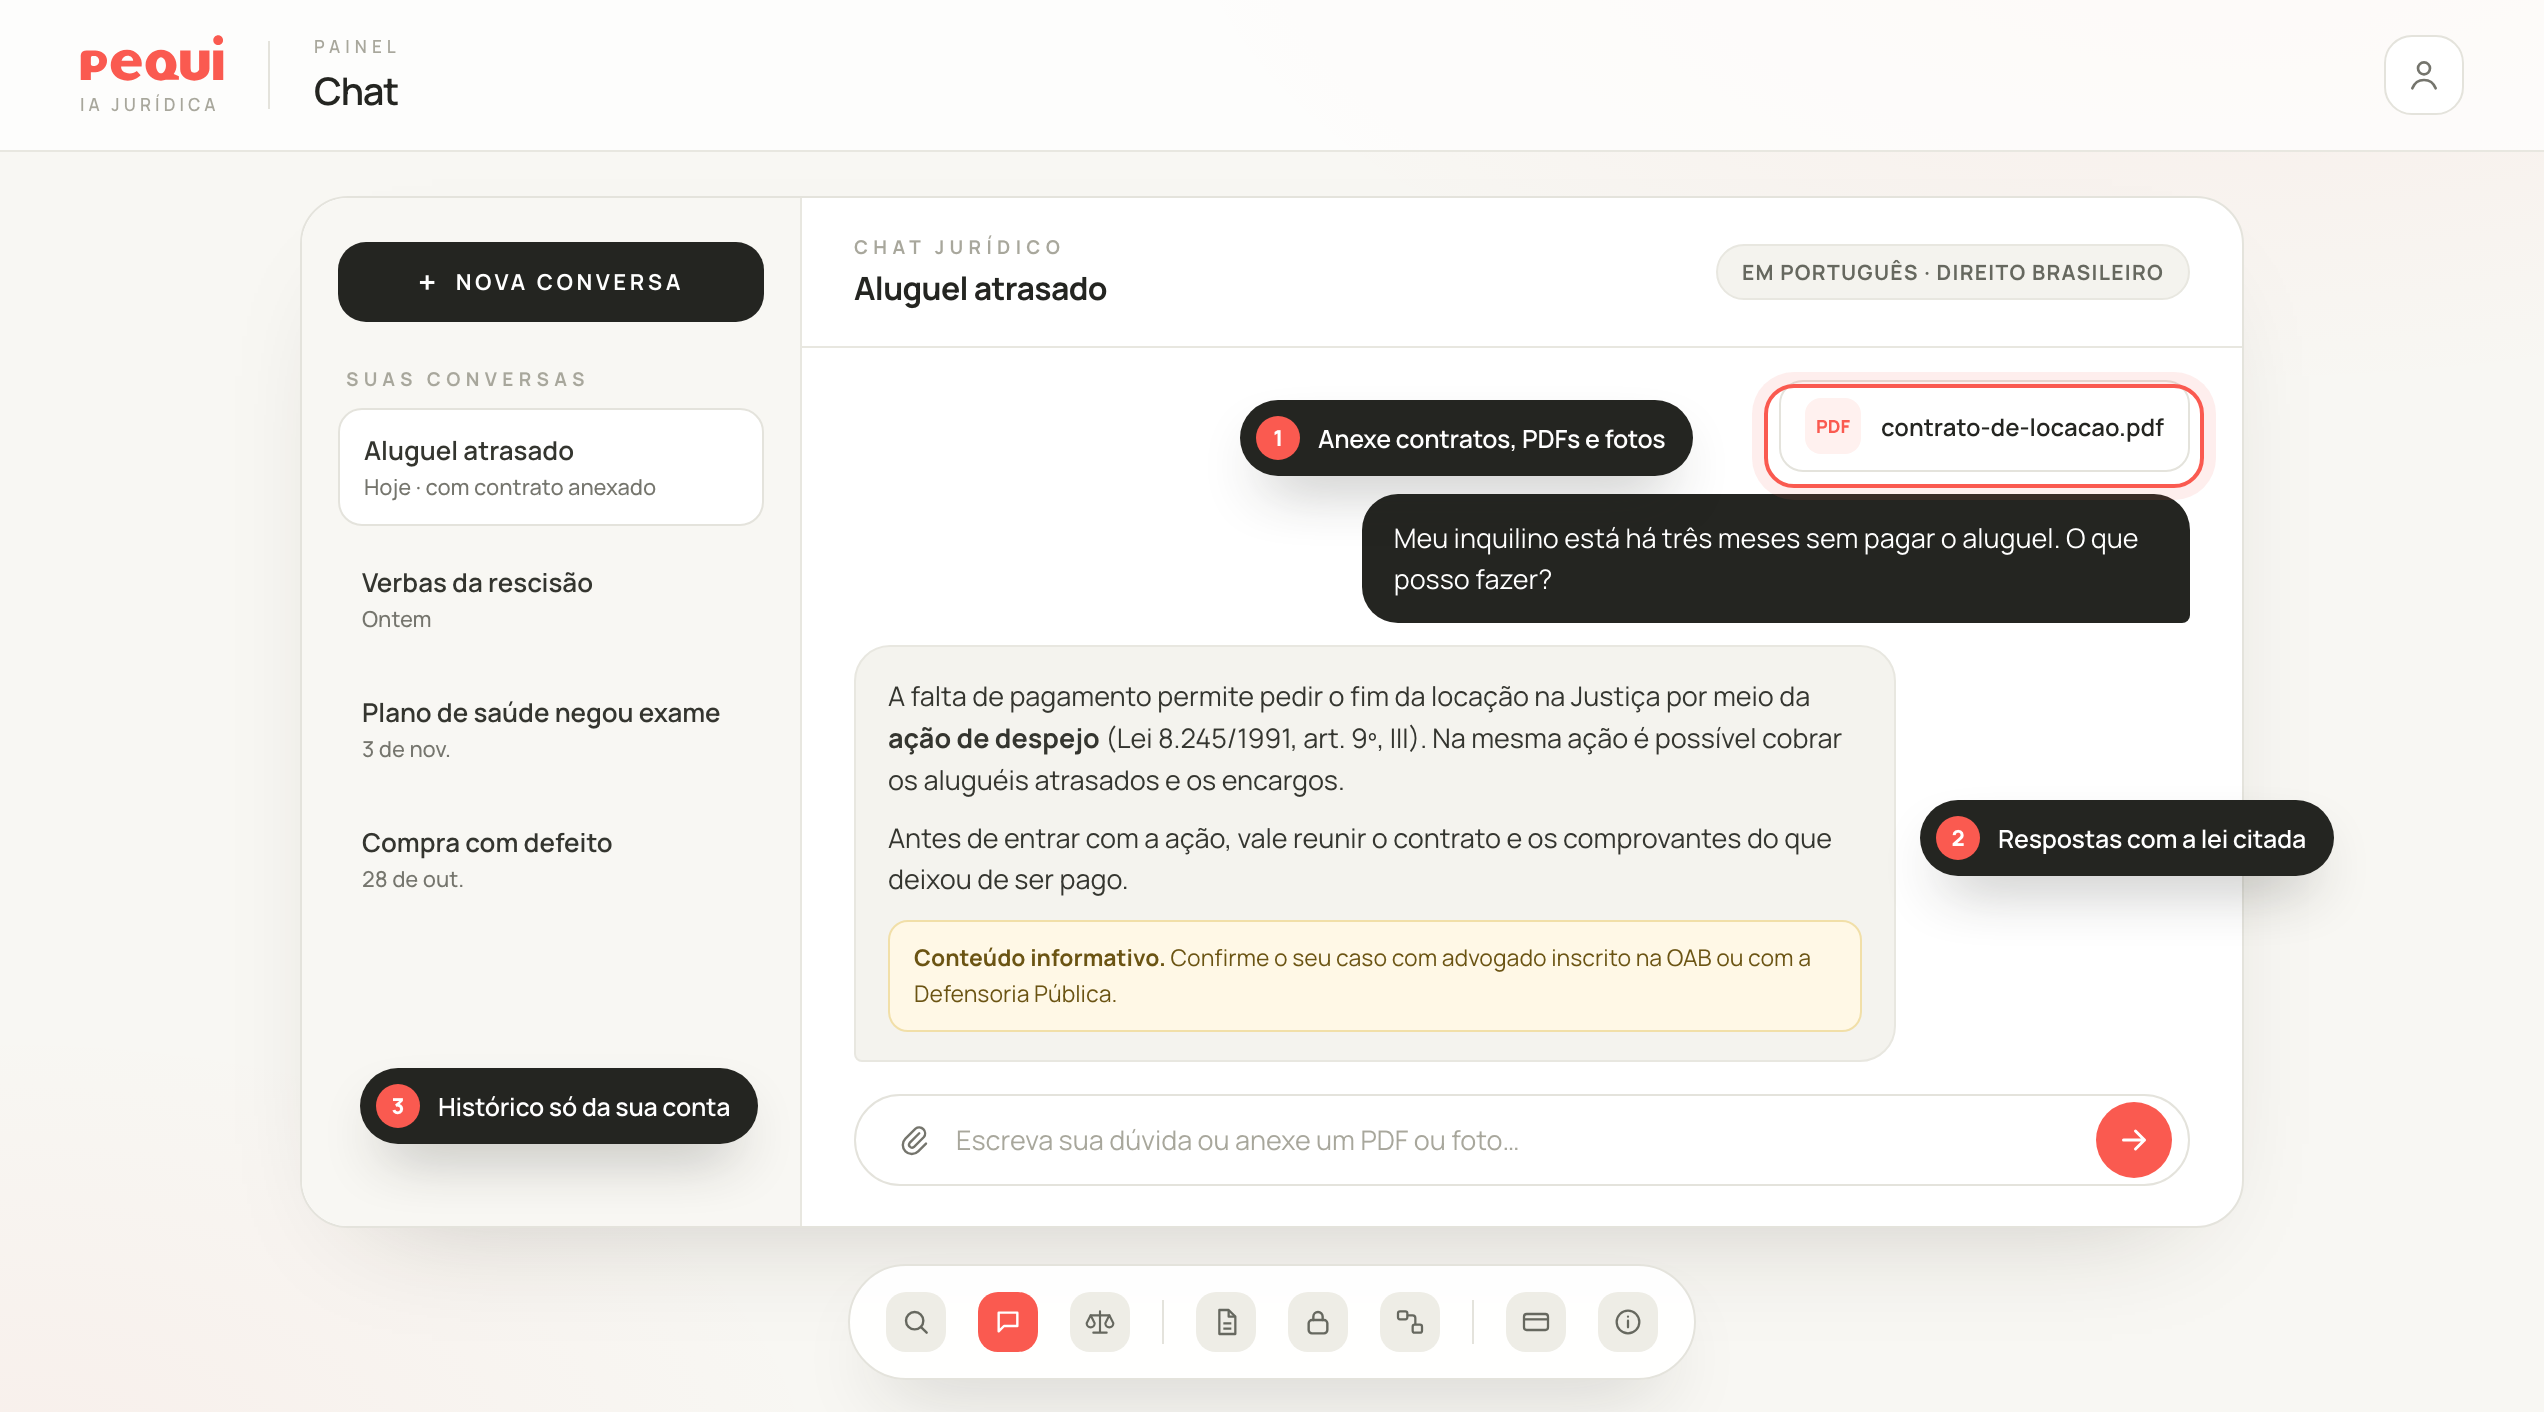
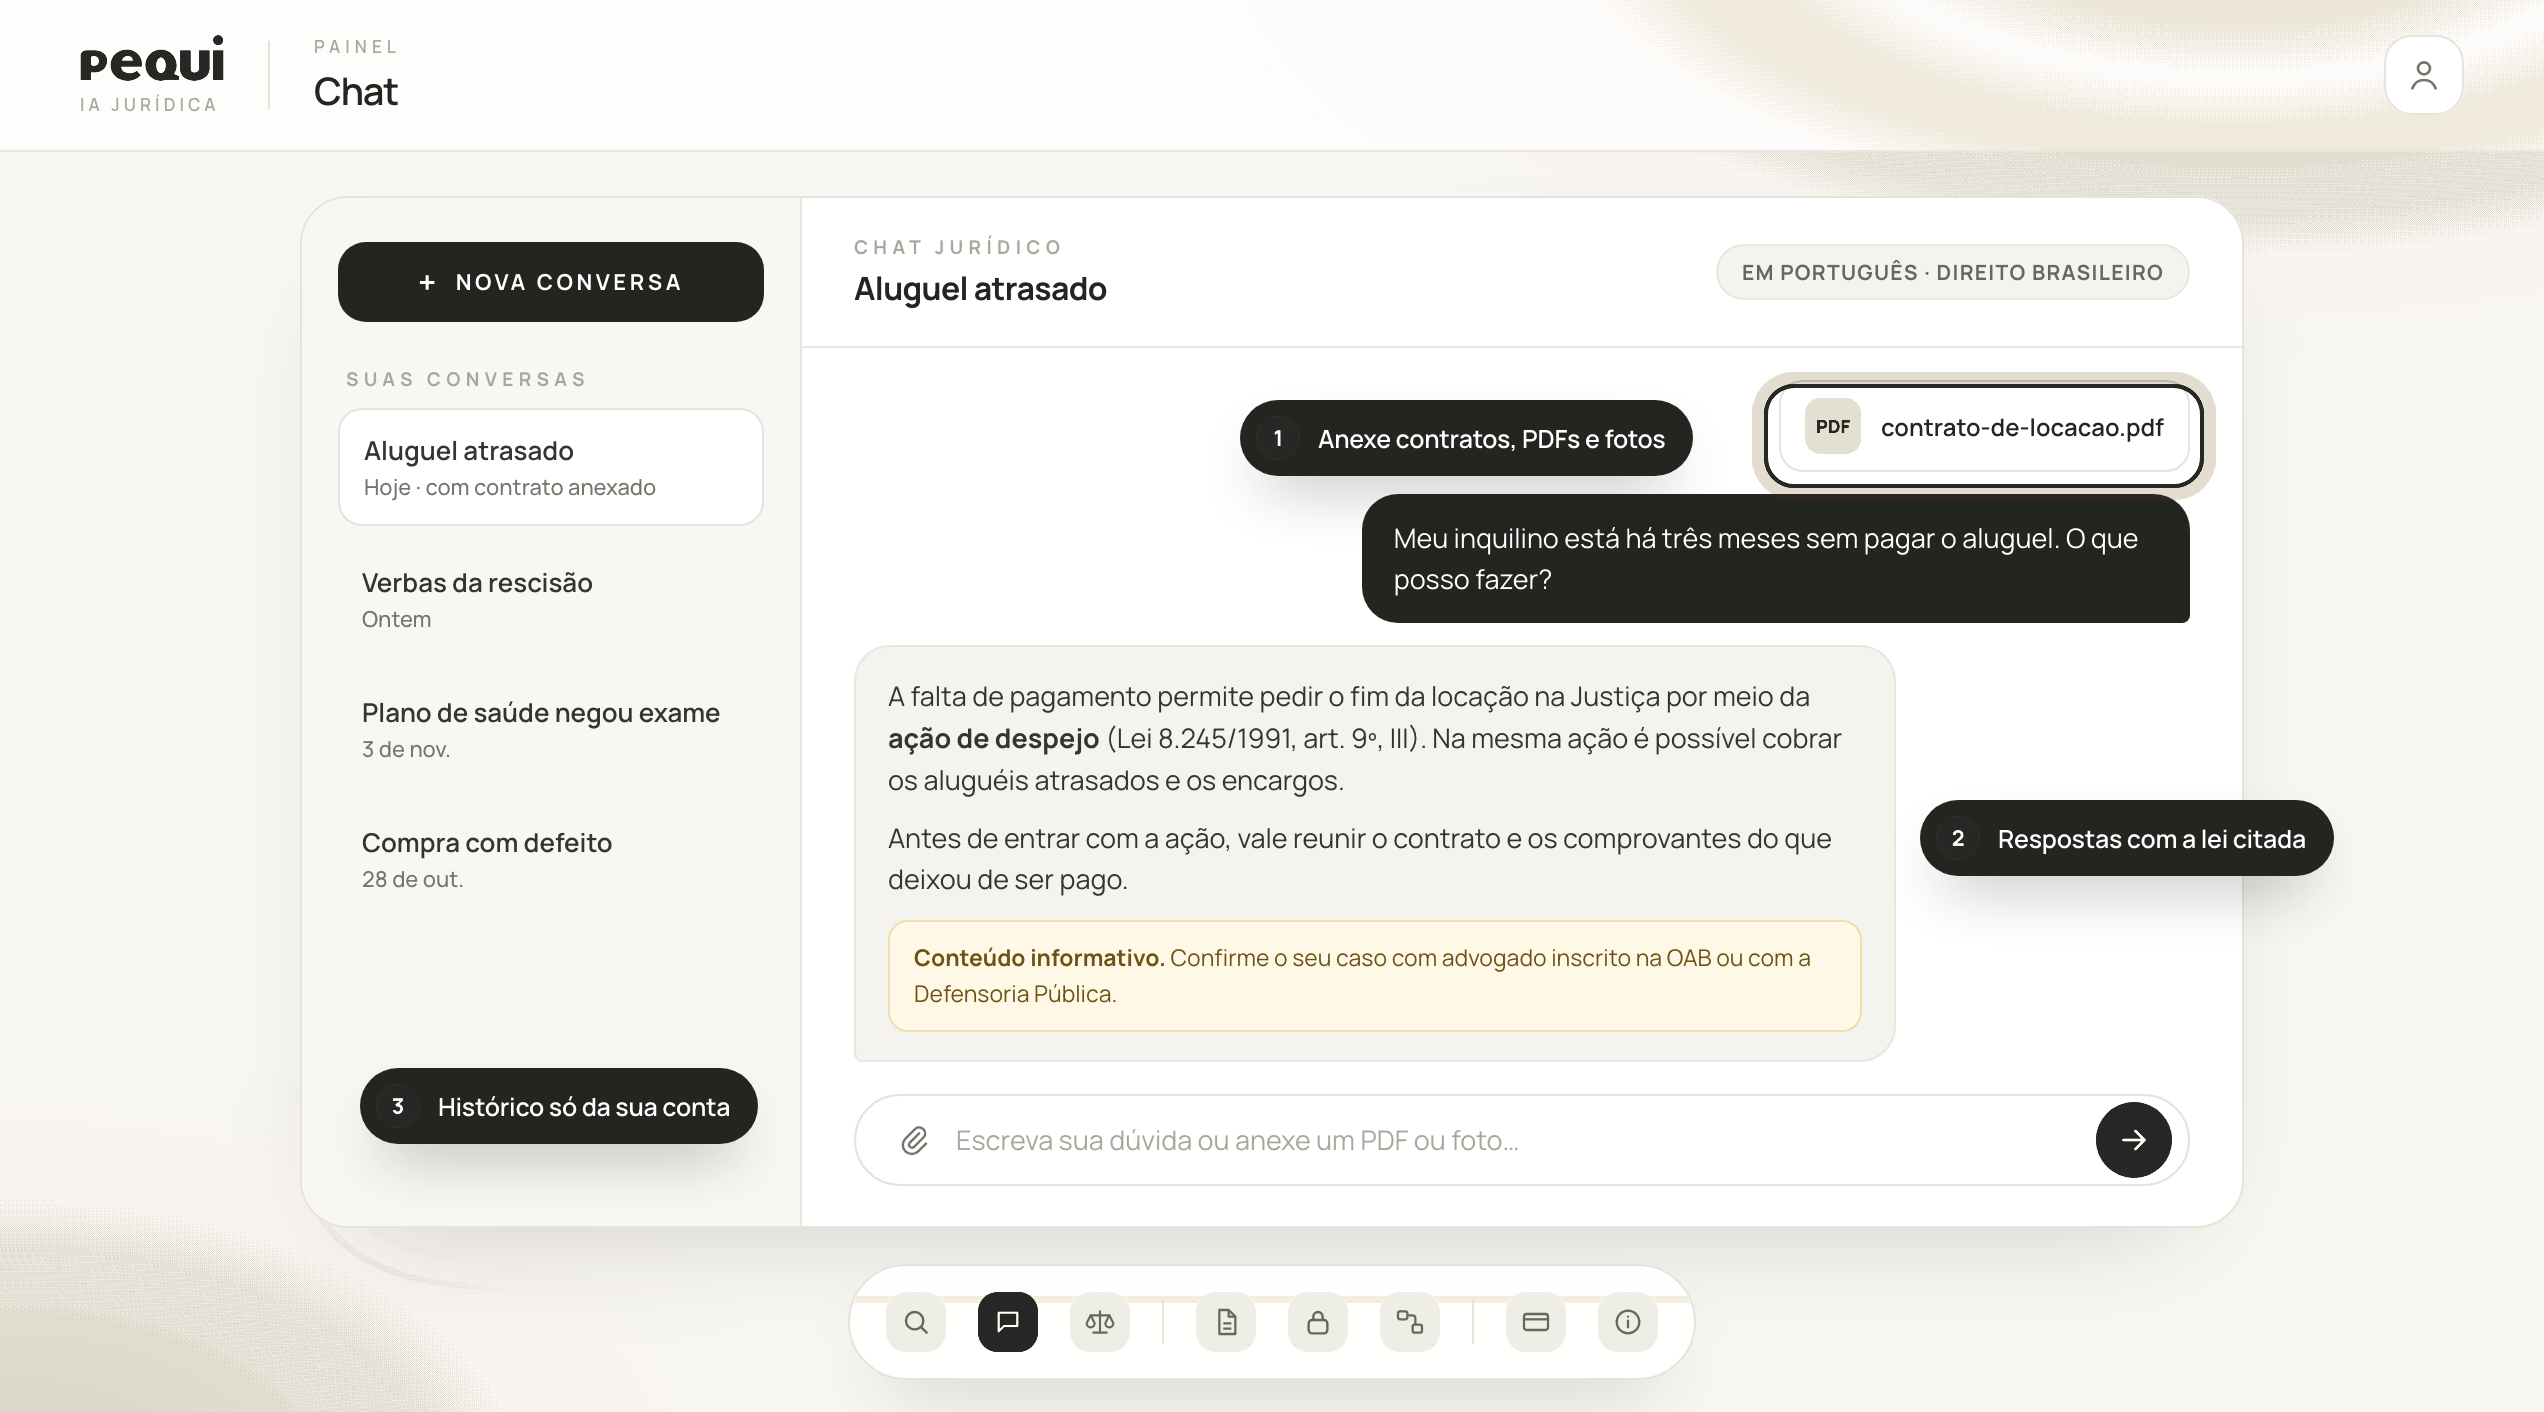
Topo com foto de colunas e telas de referência sem coral
- Foto de colunas como fundo do topo, com véu grafite e etiqueta legível
- Prints do produto e favicon recoloridos: coral vira grafite, rosa vira creme
  (fotos de pessoas mantidas como estavam)

diff --git a/app/components/landingpage/HeroSection.tsx b/app/components/landingpage/HeroSection.tsx
@@ -1,6 +1,7 @@
 'use client';
 
 import { useState } from 'react';
+import Image from 'next/image';
 import Link from 'next/link';
 import { useRouter } from 'next/navigation';
 
@@ -21,28 +22,26 @@ export default function HeroSection() {
       id="hero"
       className="relative -mt-20 overflow-hidden bg-[#151816] px-5 pb-20 pt-40 text-white sm:px-8 sm:pt-48 lg:pb-28"
     >
-      {/* luz quente e linhas finas no fundo */}
+      {/* Foto de fundo (colunas de um palácio da justiça) com véu grafite para o texto ler bem */}
+      <Image
+        src="/landingpage/hero/colunas.jpg"
+        alt=""
+        fill
+        priority
+        sizes="100vw"
+        className="object-cover object-[50%_45%]"
+      />
       <div
         aria-hidden="true"
         className="pointer-events-none absolute inset-0"
         style={{
           background:
-            'radial-gradient(ellipse 70% 55% at 50% 0%, rgba(244,239,223,0.16), transparent 70%), radial-gradient(ellipse 50% 40% at 85% 100%, rgba(244,239,223,0.08), transparent 70%)',
-        }}
-      />
-      <div
-        aria-hidden="true"
-        className="pointer-events-none absolute inset-0 opacity-[0.06]"
-        style={{
-          backgroundImage: 'linear-gradient(rgba(255,255,255,.6) 1px, transparent 1px), linear-gradient(90deg, rgba(255,255,255,.6) 1px, transparent 1px)',
-          backgroundSize: '72px 72px',
-          maskImage: 'radial-gradient(ellipse 70% 60% at 50% 30%, #000 30%, transparent 75%)',
-          WebkitMaskImage: 'radial-gradient(ellipse 70% 60% at 50% 30%, #000 30%, transparent 75%)',
+            'linear-gradient(180deg, rgba(21,24,22,0.7) 0%, rgba(21,24,22,0.5) 30%, rgba(21,24,22,0.4) 45%, rgba(21,24,22,0.6) 75%, rgba(21,24,22,0.92) 100%), radial-gradient(ellipse 60% 50% at 50% 45%, rgba(21,24,22,0.35), transparent 75%)',
         }}
       />
 
       <div className="relative z-10 mx-auto flex max-w-5xl flex-col items-center text-center">
-        <p className="text-[0.78rem] uppercase tracking-[0.2em] text-white/55">IA jurídica white-label para escritórios</p>
+        <p className="rounded-full bg-[#151816]/60 px-4 py-1.5 text-[0.72rem] uppercase tracking-[0.2em] text-white/75 ring-1 ring-white/10 backdrop-blur-sm">IA jurídica white-label para escritórios</p>
 
         <h1 className="mt-6 text-[clamp(2.75rem,7vw,5.5rem)] font-medium leading-[1.02] tracking-[-0.035em] text-white">
           A IA jurídica com a
